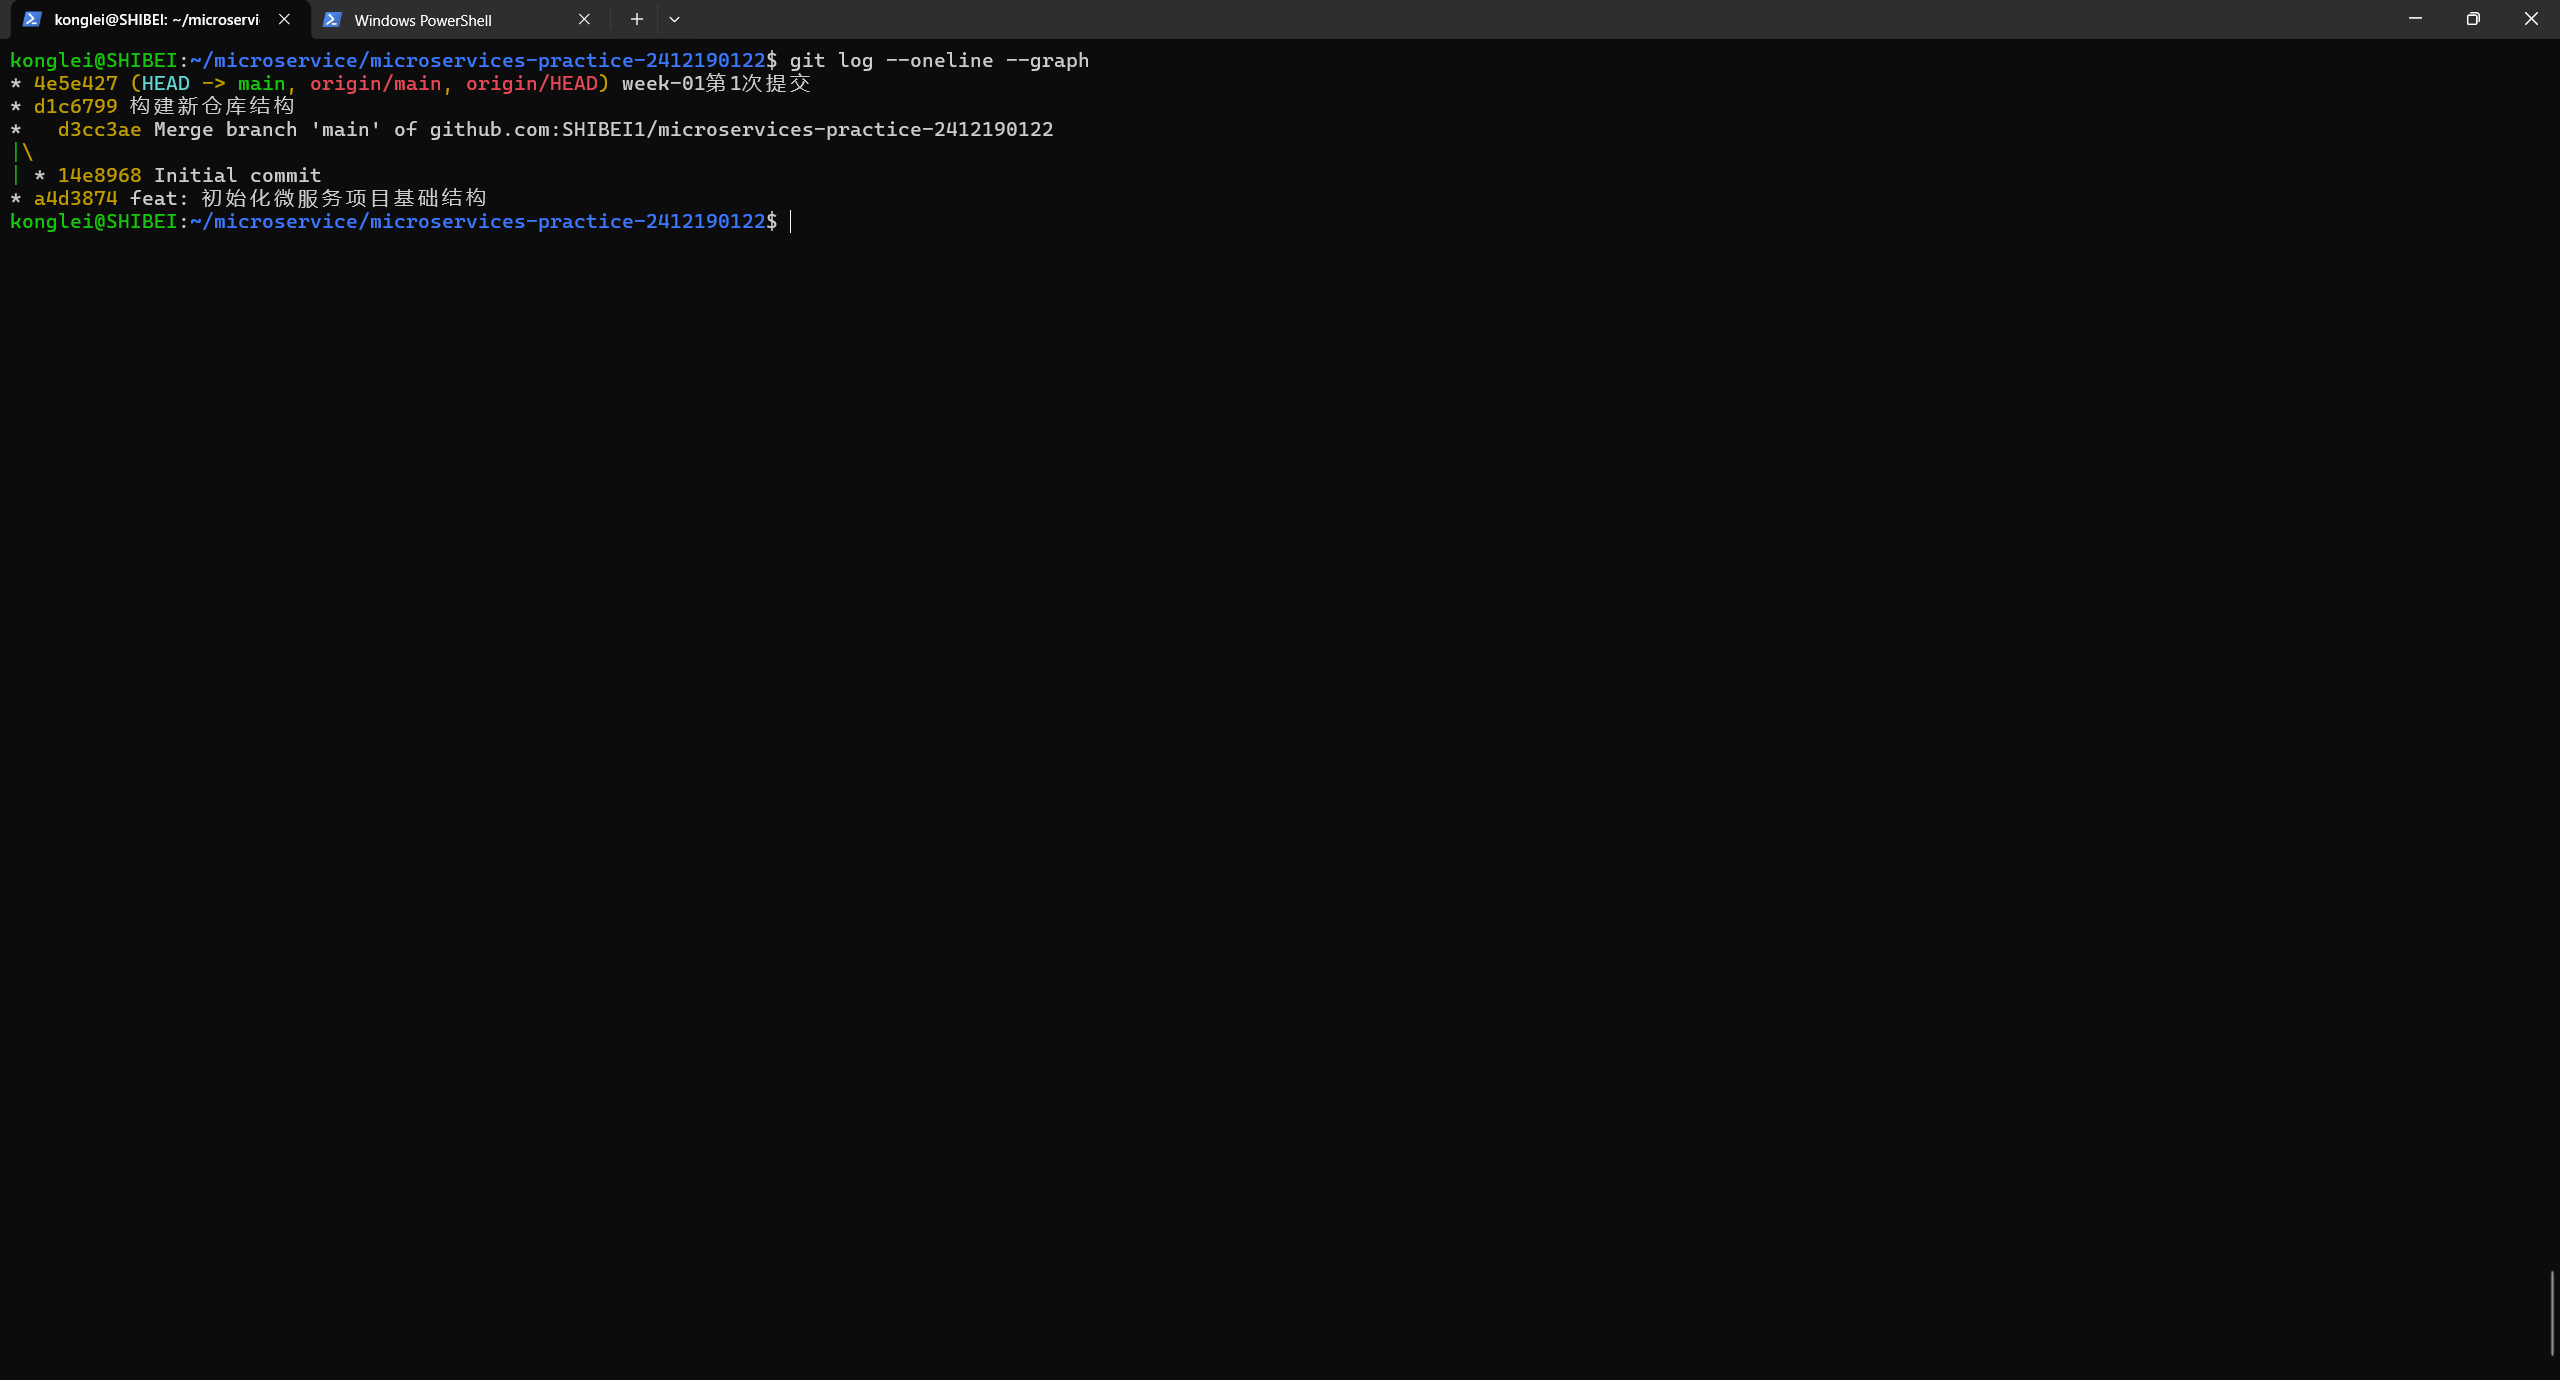
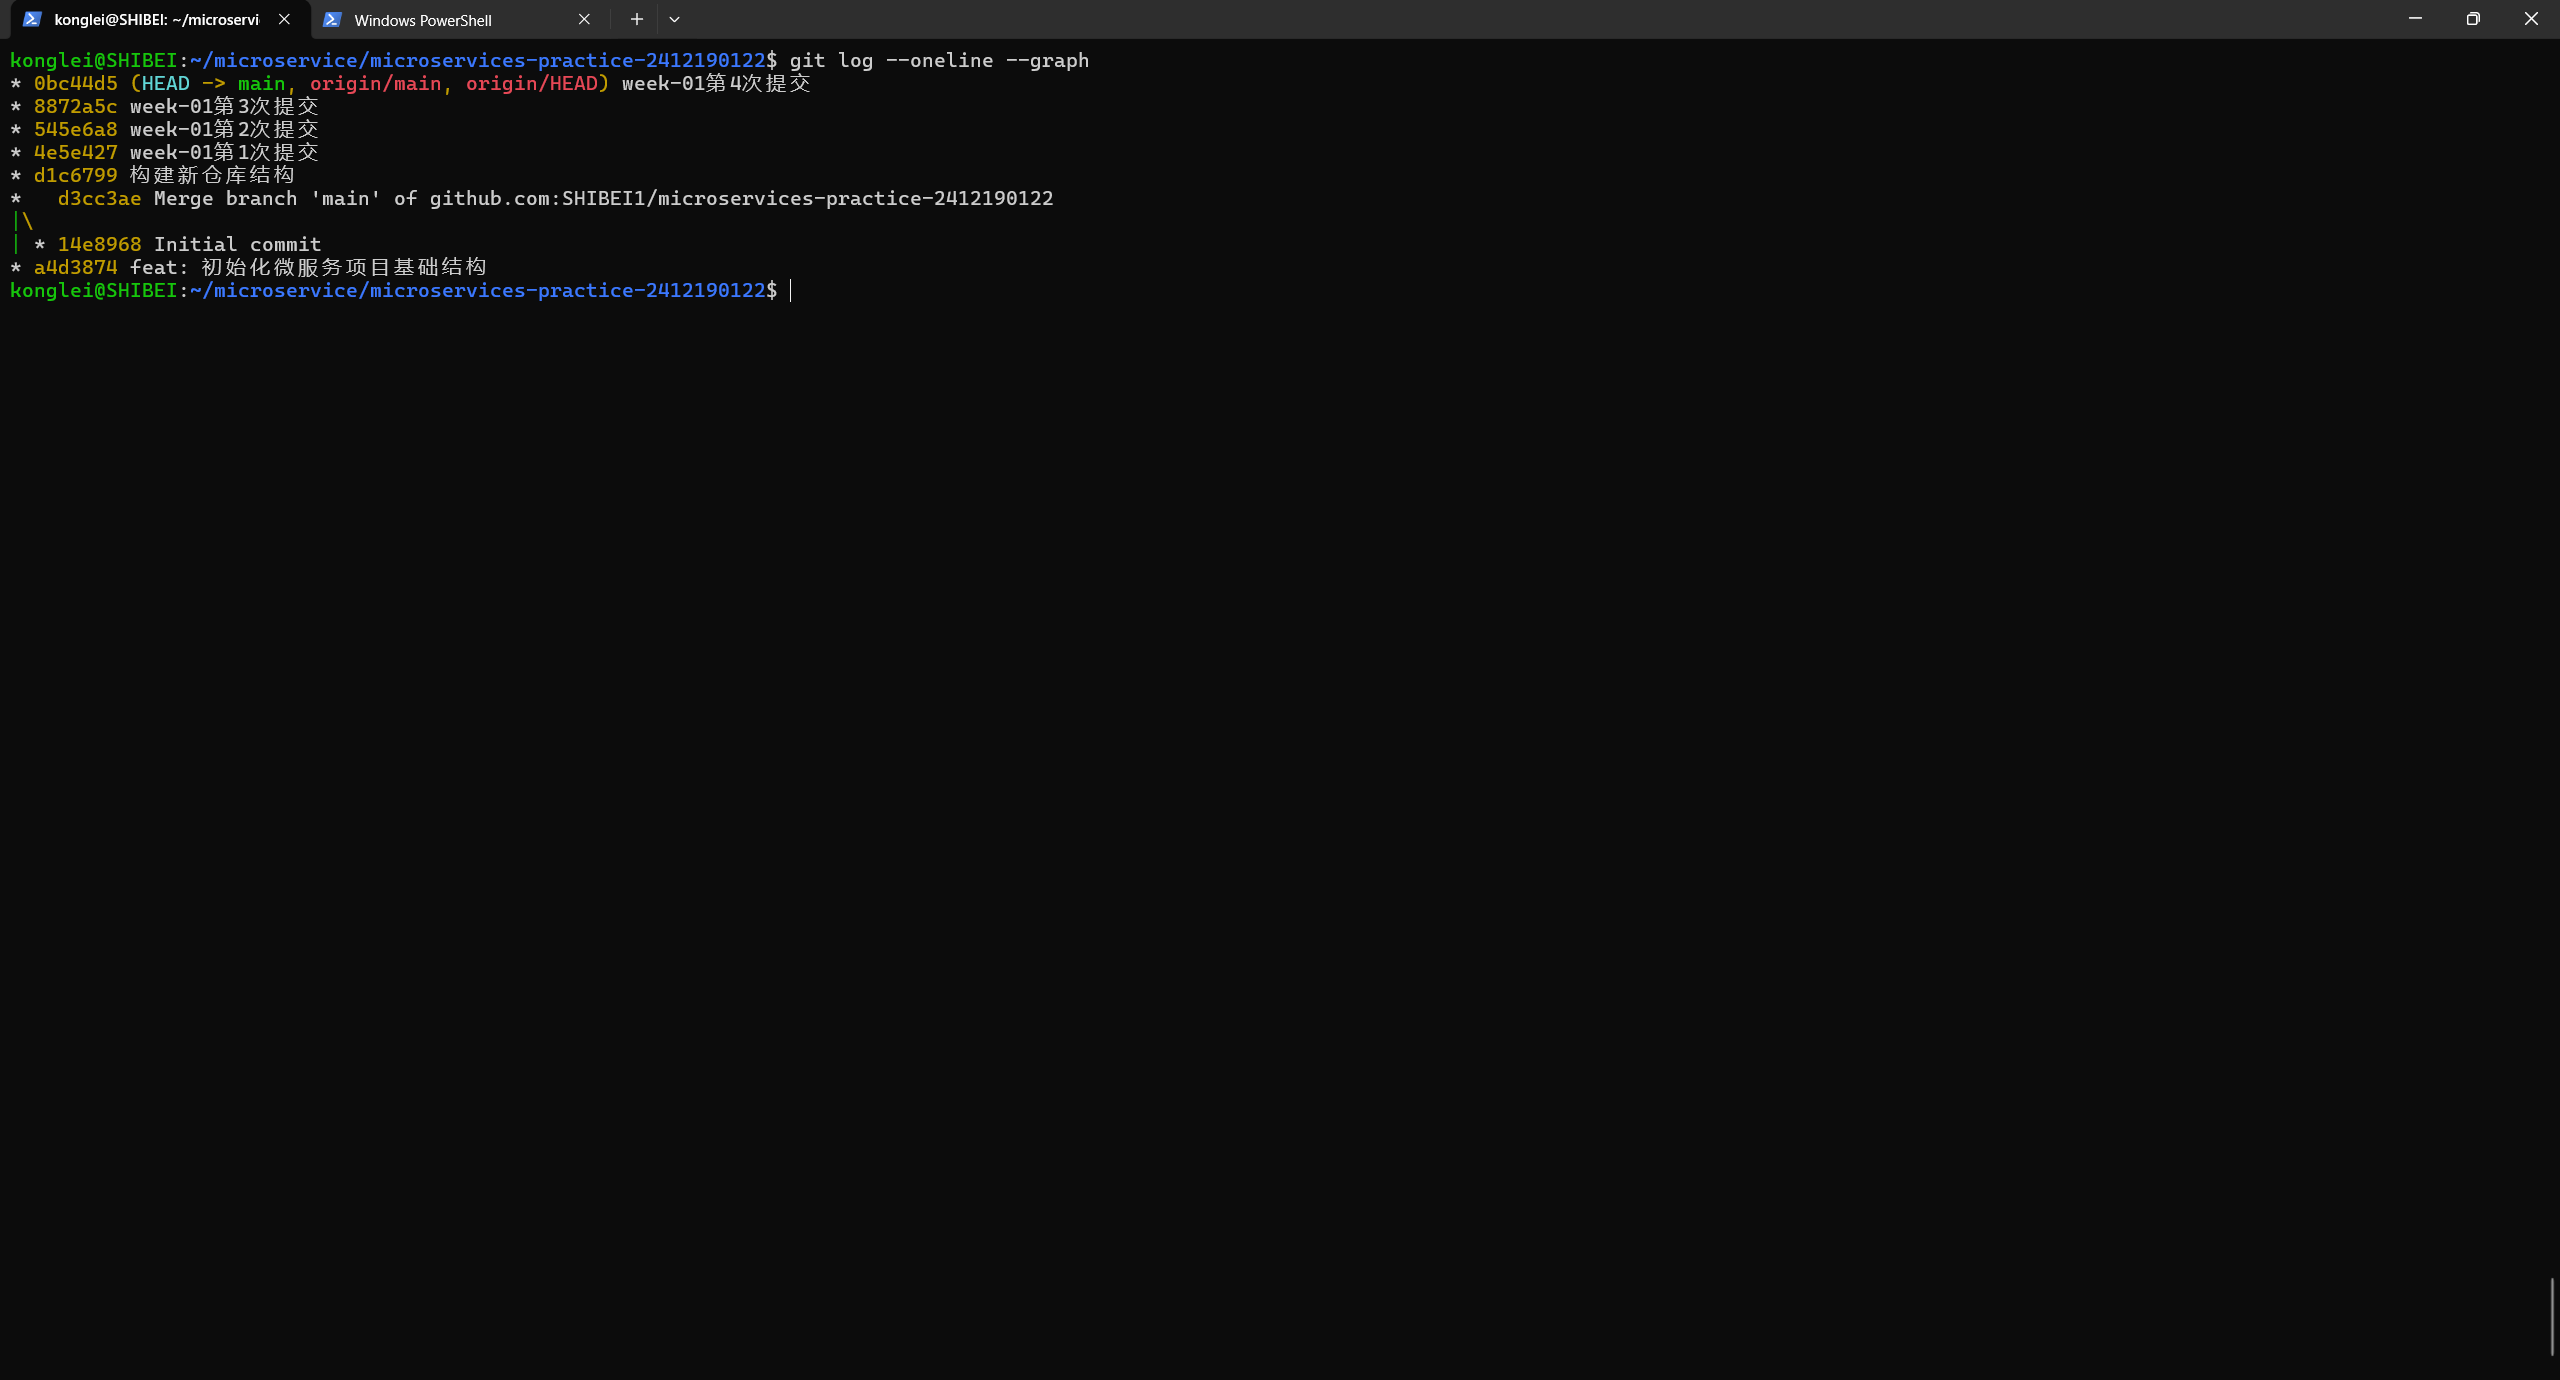
week-01第5次提交

Changed region(s): [[0.0, 0.0623, 0.4062, 0.2181]]

diff --git a/docs/homework/week-01/index.md b/docs/homework/week-01/index.md
@@ -40,18 +40,25 @@ Server: Docker Desktop 4.91.0 (239619)
   GitCommit:        de40ad0
 Docker Compose version v5.5.1
 
-**终端截图：**
-
-![image-20260915163601181](C:\Users\32212\AppData\Roaming\Typora\typora-user-images\image-20260915163601181.png)
-
 
 
 ## 概念回答
 
-1.微服务架构是一种将单一应用程序划分为一组小型服务的架构风格。每个服务围绕特定业务能力构建，独立开发、部署、运行和扩展，服务之间通过轻量级通信机制交互，并可各自采用不同的技术栈和数据存储。
-2.单体架构将所有功能集中在一个应用中，统一开发、部署和扩展，模块间耦合度高；微服务则将系统拆分为多个独立服务，每个服务可单独开发、部署和扩展，技术异构性强，但带来了分布式复杂性、服务治理和运维成本。
-3.先实现单体系统有助于理解完整业务需求和系统整体结构，降低初学阶段的分布式复杂度；在单体基础上逐步拆分，可以直观对比两种架构的差异，理解拆分的时机、边界和代价。
-4.可重复运行的测试或验证脚本能保证作业结果客观、可验证，方便老师快速检查功能是否正确；同时促使学生养成自动化测试和可复现实验的习惯，减少环境差异和手工操作带来的误差，也便于后续在微服务拆分过程中持续验证各服务行为是否保持一致。
+**1. 什么是微服务架构？**
+
+我理解的微服务架构，就是不再把项目做成一个大而全的 "大应用"，而是按业务功能拆成一个个独立的小服务。比如用户、订单、支付各自是一个服务，它们可以分别开发、分别部署、分别运行，一个出问题了不影响其他服务；服务之间通过网络通信，每个服务还能选自己合适的语言和技术栈，数据也各管各的。
+
+**2. 微服务和单体架构的主要区别？**
+
+单体架构是把所有功能都放在一个应用里：一个代码库、一起打包、一起部署，好处是简单直接，但模块之间耦合很紧，改一处可能影响整体，扩容也只能整个应用一起扩。微服务则把系统拆成多个独立小服务，每个都能单独开发、部署、扩容，技术上各用各的，灵活很多。代价是系统复杂度上去了：服务之间的通信、数据一致性、监控运维这些都要额外处理，对初学者来说上手难度明显更高。
+
+**3. 为什么本课程先实现单体，再逐步拆分为微服务？**
+
+我觉得这个顺序很合理。刚开始学的时候，业务和代码结构都不熟，如果一上来就面对服务发现、网关、负载均衡这一堆分布式概念，很容易被劝退。先做一个单体，能把业务流程、模块划分这些基础先吃透；等单体跑通了，再逐步把某个模块拆成独立服务，就能直观对比 "拆之前" 和 "拆之后" 的区别，也更清楚哪些部分适合拆、拆了会带来什么额外成本，而不是凭空理解微服务。
+
+**4. 为什么作业需要提供可重复运行的测试或验证脚本？**
+
+因为作业是给别人看的，只说 "我测过了" 没有说服力，别人也没法复现。提供一个能直接运行的脚本，老师一条命令就能验证功能对不对，结果客观、可查。对自己来说，把验证过程脚本化也是好习惯：以后每次改代码、每次拆分服务，都能用同一个脚本快速确认 "改动有没有把原本好的功能弄坏"，不用反复手工操作，也避免 "我这边能跑、你那边跑不了" 这种环境差异问题。
 
 
 
